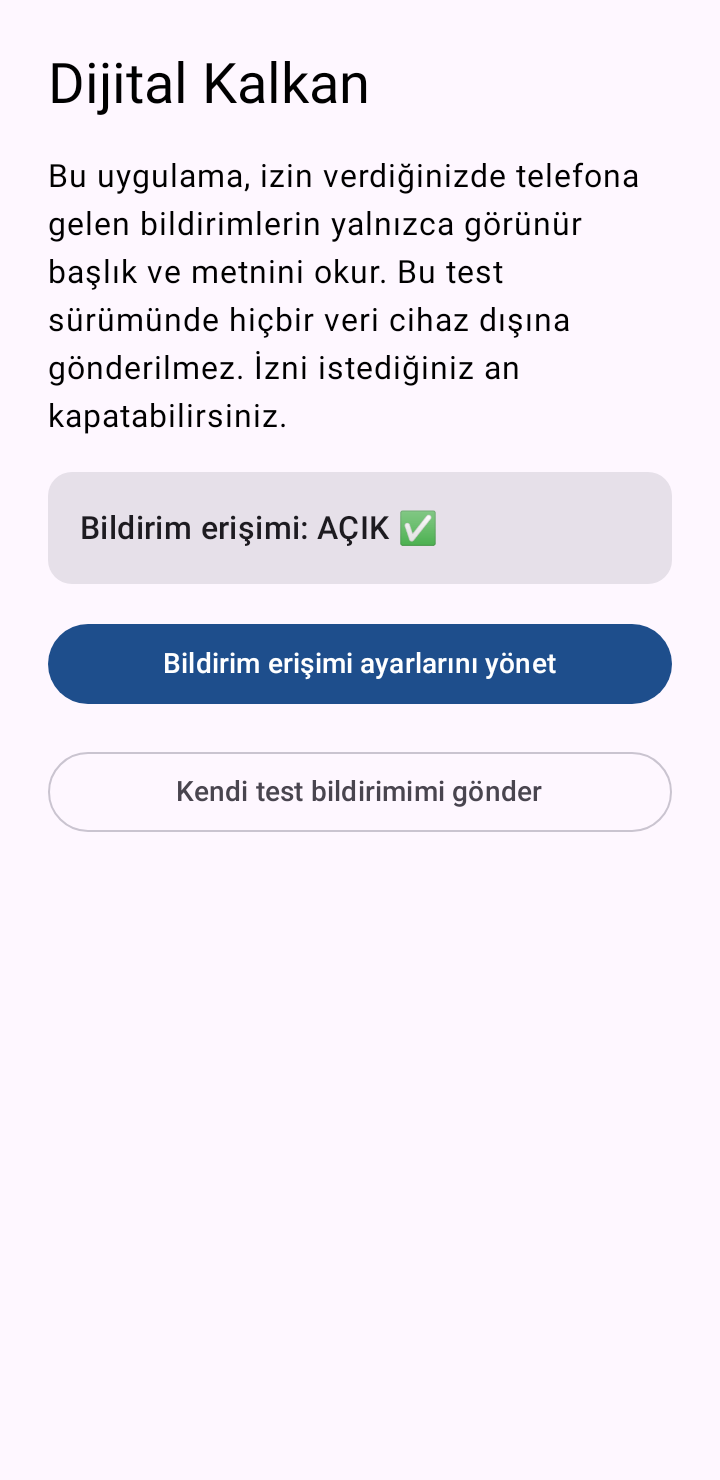
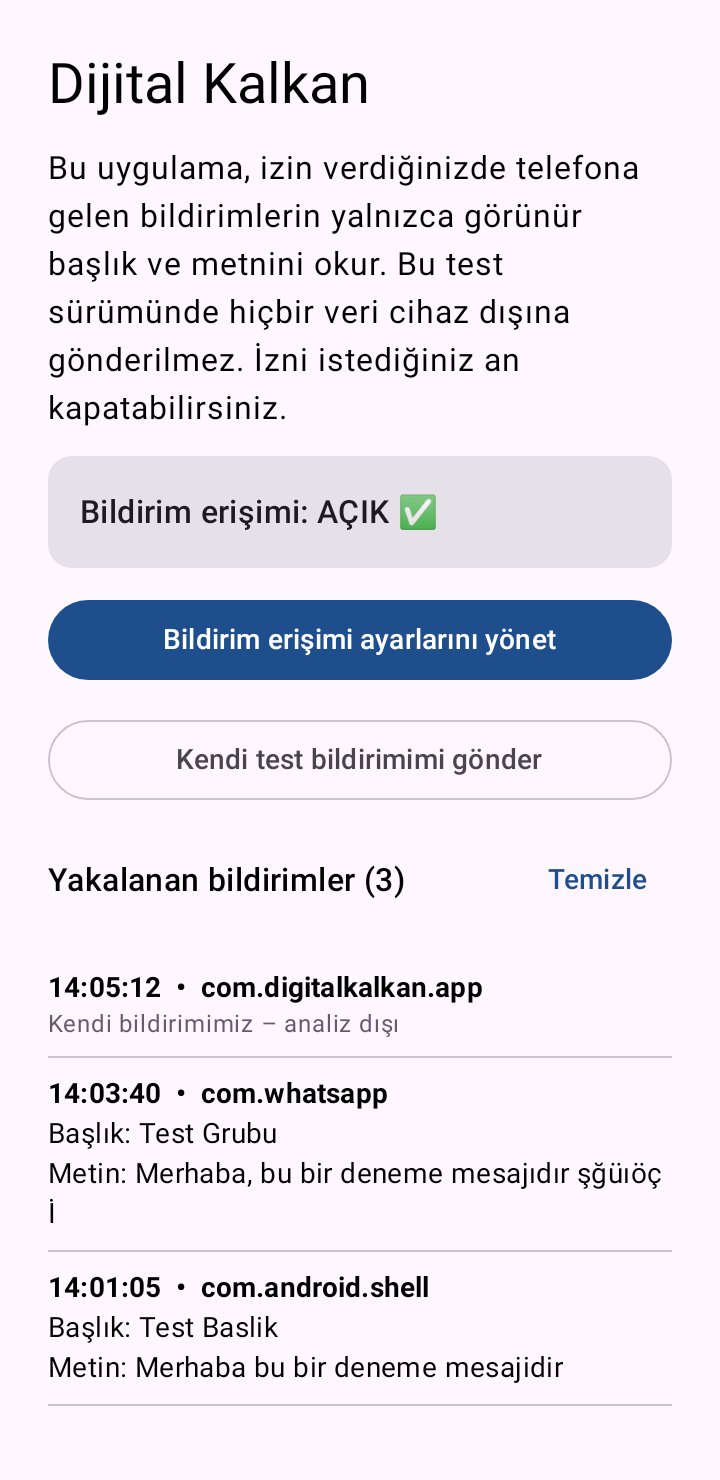
Test kolaylığı: yakalanan bildirimleri uygulama ekranında göster
Bilgisayar/Logcat olmadan test için son 30 bildirim yalnızca bellekte
tutulup ana ekranda listelenir; uygulama kapanınca silinir.

Claude-Session: https://claude.ai/code/session_013UshJcfUq5GacDzKuWeUUX

diff --git a/app/src/main/java/com/digitalkalkan/app/MainActivity.kt b/app/src/main/java/com/digitalkalkan/app/MainActivity.kt
@@ -15,7 +15,14 @@ import androidx.compose.foundation.layout.Arrangement
 import androidx.compose.foundation.layout.Column
 import androidx.compose.foundation.layout.fillMaxSize
 import androidx.compose.foundation.layout.fillMaxWidth
+import androidx.compose.foundation.layout.Row
 import androidx.compose.foundation.layout.padding
+import androidx.compose.foundation.lazy.LazyColumn
+import androidx.compose.foundation.lazy.items
+import androidx.compose.material3.HorizontalDivider
+import androidx.compose.material3.TextButton
+import androidx.compose.ui.Alignment
+import androidx.compose.ui.text.font.FontWeight
 import androidx.compose.material3.Button
 import androidx.compose.material3.Card
 import androidx.compose.material3.MaterialTheme
@@ -31,6 +38,8 @@ import androidx.compose.ui.platform.LocalContext
 import androidx.compose.ui.tooling.preview.Preview
 import androidx.compose.ui.unit.dp
 import androidx.core.content.ContextCompat
+import com.digitalkalkan.app.monitoring.notification.CapturedNotification
+import com.digitalkalkan.app.monitoring.notification.CapturedNotificationLog
 import com.digitalkalkan.app.notifications.TestNotificationHelper
 import com.digitalkalkan.app.permissions.NotificationAccess
 import com.digitalkalkan.app.ui.theme.DijitalKalkanTheme
@@ -70,7 +79,8 @@ class MainActivity : ComponentActivity() {
 fun MainScreen(
     listenerEnabled: Boolean,
     onOpenSettings: () -> Unit,
-    modifier: Modifier = Modifier
+    modifier: Modifier = Modifier,
+    captured: List<CapturedNotification> = CapturedNotificationLog.items
 ) {
     val context = LocalContext.current
     val permissionLauncher = rememberLauncherForActivityResult(
@@ -79,7 +89,7 @@ fun MainScreen(
 
     Column(
         modifier = modifier.fillMaxSize().padding(24.dp),
-        verticalArrangement = Arrangement.spacedBy(16.dp)
+        verticalArrangement = Arrangement.spacedBy(12.dp)
     ) {
         Text("Dijital Kalkan", style = MaterialTheme.typography.headlineMedium)
 
@@ -118,6 +128,46 @@ fun MainScreen(
             modifier = Modifier.fillMaxWidth()
         ) {
             Text("Kendi test bildirimimi gönder")
+        }
+
+        // --- Test listesi: yakalanan bildirimler ---
+        Row(verticalAlignment = Alignment.CenterVertically) {
+            Text(
+                "Yakalanan bildirimler (${captured.size})",
+                style = MaterialTheme.typography.titleMedium,
+                modifier = Modifier.weight(1f)
+            )
+            TextButton(onClick = { CapturedNotificationLog.clear() }) { Text("Temizle") }
+        }
+        if (captured.isEmpty()) {
+            Text(
+                "Henüz bildirim yok. Başka bir telefondan bu telefona mesaj gönderin.",
+                style = MaterialTheme.typography.bodyMedium
+            )
+        }
+        LazyColumn(modifier = Modifier.fillMaxWidth().weight(1f)) {
+            items(captured) { item ->
+                CapturedRow(item)
+                HorizontalDivider()
+            }
+        }
+    }
+}
+
+@Composable
+private fun CapturedRow(item: CapturedNotification) {
+    Column(Modifier.padding(vertical = 8.dp)) {
+        Text(
+            "${item.time}  •  ${item.packageName}",
+            style = MaterialTheme.typography.labelLarge,
+            fontWeight = FontWeight.Bold
+        )
+        if (item.skippedReason != null) {
+            Text(item.skippedReason, style = MaterialTheme.typography.bodySmall,
+                color = MaterialTheme.colorScheme.secondary)
+        } else {
+            if (item.title.isNotBlank()) Text("Başlık: ${item.title}", style = MaterialTheme.typography.bodyMedium)
+            Text("Metin: ${item.text.ifBlank { "(boş / gizli)" }}", style = MaterialTheme.typography.bodyMedium)
         }
     }
 }

diff --git a/app/src/test/java/com/digitalkalkan/app/MainScreenScreenshotTest.kt b/app/src/test/java/com/digitalkalkan/app/MainScreenScreenshotTest.kt
@@ -9,6 +9,7 @@ import androidx.compose.ui.graphics.asAndroidBitmap
 import androidx.compose.ui.test.captureToImage
 import androidx.compose.ui.test.junit4.createComposeRule
 import androidx.compose.ui.test.onRoot
+import com.digitalkalkan.app.monitoring.notification.CapturedNotification
 import com.digitalkalkan.app.ui.theme.DijitalKalkanTheme
 import org.junit.Rule
 import org.junit.Test
@@ -30,12 +31,13 @@ class MainScreenScreenshotTest {
     @get:Rule
     val composeRule = createComposeRule()
 
-    private fun capture(name: String, enabled: Boolean) {
+    private fun capture(name: String, enabled: Boolean, captured: List<CapturedNotification> = emptyList()) {
         composeRule.setContent {
             DijitalKalkanTheme(darkTheme = false) {
                 MainScreen(
                     listenerEnabled = enabled,
                     onOpenSettings = {},
+                    captured = captured,
                     modifier = Modifier.fillMaxSize().background(MaterialTheme.colorScheme.background)
                 )
             }
@@ -49,5 +51,12 @@ class MainScreenScreenshotTest {
     fun anaEkran_izinKapali() = capture("ana_ekran_izin_kapali", enabled = false)
 
     @Test
-    fun anaEkran_izinAcik() = capture("ana_ekran_izin_acik", enabled = true)
+    fun anaEkran_izinAcik() = capture(
+        "ana_ekran_izin_acik", enabled = true,
+        captured = listOf(
+            CapturedNotification("14:05:12", "com.digitalkalkan.app", "", "", "Kendi bildirimimiz – analiz dışı"),
+            CapturedNotification("14:03:40", "com.whatsapp", "Test Grubu", "Merhaba, bu bir deneme mesajıdır şğüıöç İ"),
+            CapturedNotification("14:01:05", "com.android.shell", "Test Baslik", "Merhaba bu bir deneme mesajidir")
+        )
+    )
 }

diff --git a/app/src/main/java/com/digitalkalkan/app/monitoring/notification/MessageNotificationListener.kt b/app/src/main/java/com/digitalkalkan/app/monitoring/notification/MessageNotificationListener.kt
@@ -36,6 +36,7 @@ class MessageNotificationListener : NotificationListenerService() {
         // 1) Kendi uygulamamızın bildirimlerini analiz dışı tut
         if (sourcePackage == packageName) {
             Log.d(TAG, "Kendi bildirimimiz, analiz dışı bırakıldı.")
+            CapturedNotificationLog.add(sourcePackage, "", "", "Kendi bildirimimiz – analiz dışı")
             return
         }
 
@@ -44,6 +45,7 @@ class MessageNotificationListener : NotificationListenerService() {
         // 2) Grup özet bildirimlerini atla (ör. "3 yeni mesaj"); asıl mesajlar ayrı gelir
         if (notification.flags and Notification.FLAG_GROUP_SUMMARY != 0) {
             Log.d(TAG, "Grup özeti atlandı: $sourcePackage")
+            CapturedNotificationLog.add(sourcePackage, "", "", "Grup özeti – atlandı")
             return
         }
 
@@ -65,6 +67,9 @@ class MessageNotificationListener : NotificationListenerService() {
         } else {
             Log.i(TAG, "YENİ BİLDİRİM | paket=$sourcePackage | metin uzunluğu=${visibleText.length}")
         }
+
+        // Test için uygulama ekranındaki listeye ekle (yalnızca bellekte)
+        CapturedNotificationLog.add(sourcePackage, title, visibleText)
 
         // Sonraki aşama: visibleText -> metin temizleme -> Türkçe analiz motoru
     }

diff --git a/app/src/main/java/com/digitalkalkan/app/monitoring/notification/CapturedNotificationLog.kt b/app/src/main/java/com/digitalkalkan/app/monitoring/notification/CapturedNotificationLog.kt
@@ -1,0 +1,33 @@
+package com.digitalkalkan.app.monitoring.notification
+
+import androidx.compose.runtime.mutableStateListOf
+import java.text.SimpleDateFormat
+import java.util.Date
+import java.util.Locale
+
+/** Ekranda gösterilecek tek bir yakalanan bildirim kaydı. */
+data class CapturedNotification(
+    val time: String,
+    val packageName: String,
+    val title: String,
+    val text: String,
+    val skippedReason: String? = null   // null değilse analiz dışı bırakıldı
+)
+
+/**
+ * Test amaçlı geçici liste: son 30 bildirim YALNIZCA BELLEKTE tutulur.
+ * Diske yazılmaz, internete gönderilmez; uygulama kapanınca silinir.
+ */
+object CapturedNotificationLog {
+    private const val MAX = 30
+    private val formatter = SimpleDateFormat("HH:mm:ss", Locale.forLanguageTag("tr-TR"))
+
+    val items = mutableStateListOf<CapturedNotification>()
+
+    fun add(packageName: String, title: String, text: String, skippedReason: String? = null) {
+        items.add(0, CapturedNotification(formatter.format(Date()), packageName, title, text, skippedReason))
+        while (items.size > MAX) items.removeAt(items.lastIndex)
+    }
+
+    fun clear() = items.clear()
+}

diff --git a/docs/test_asama1.md b/docs/test_asama1.md
@@ -3,7 +3,7 @@
 **Cihaz:** ……………… (marka/model)  **Android sürümü:** ……  **Test tarihi:** ……  **Testi yapan:** ……
 **Uygulama sürümü:** 0.1.0-asama1
 
-Logcat filtresi: `tag:DK-Notif` (veya `adb logcat -s DK-Notif`)
+Sonuçlar uygulamanın ana ekranındaki **"Yakalanan bildirimler"** listesinde görünür (bilgisayar gerekmez). İsteğe bağlı: Logcat filtresi `tag:DK-Notif`.
 
 > Etik kural: Testlerde yalnızca ekip içi, önceden hazırlanmış **sentetik** mesajlar kullanılır. Gerçek kişilerin mesajları kullanılmaz ve kaydedilmez.
 
